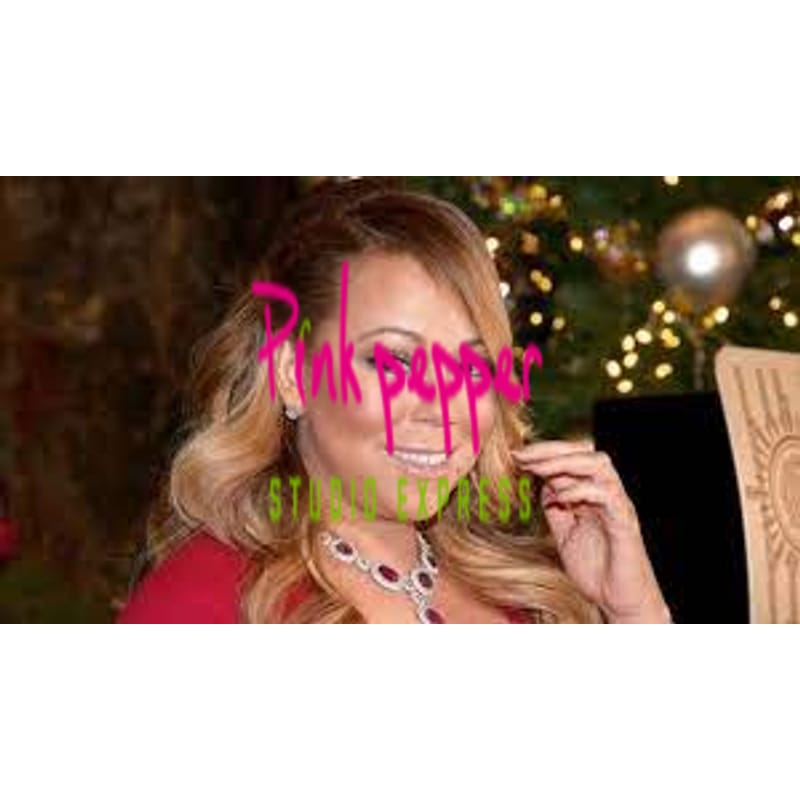
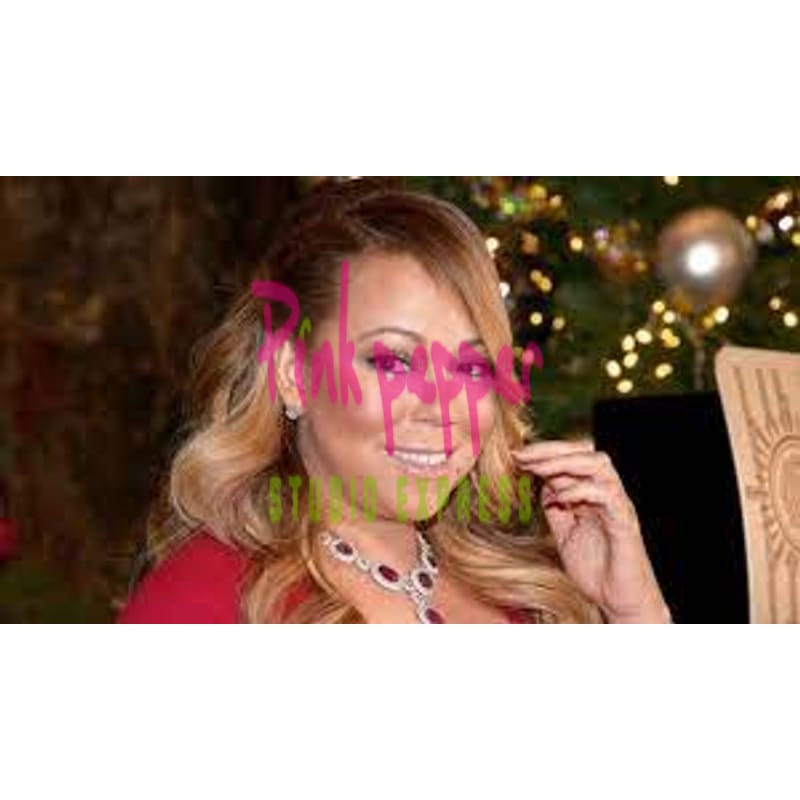
second commi

diff --git a/models/nodemailer.js b/models/nodemailer.js
@@ -26,7 +26,10 @@ const htmlToSend = template({ message: 'Hello!' });
 const mailgun = {
   mail: (email,subject,m1,m2) => {
     const mailOptions = {
-      from: 'pinkpepper@gmail.com',
+      from: {
+        name: 'PPSE',
+        address: 'codarhq@gmail.com',
+      },
       to: email,
       subject: subject,
       html: `<!DOCTYPE html>
@@ -87,10 +90,13 @@ const mailgun = {
 const mailgunh = {
   mail: (html, email, subject) => {
     const mailOptions = {
-      from: 'pinkpepper@gmail.com',
+      from: {
+        name: 'PPSE',
+        address: 'codarhq@gmail.com',
+      },
       to: email,
       subject: subject,
-      html:html
+      html: html,
       // text:"hi dear"
     };
 
@@ -210,7 +216,10 @@ const nodemh = {
 const verificationmail = {
   mail: (username, email, testran) => {
     var mailOptions = {
-      from: `pinkpepper@gmail.com`,
+      from: {
+        name: 'PPSE',
+        address: 'codarhq@gmail.com',
+      },
       to: email,
       subject: 'Account verification',
       // text: `Hi ${username} , verify account below ${testran}`,
@@ -267,7 +276,10 @@ const verificationmail = {
 const addadmin = {
   mail: (email, testran) => {
     var mailOptions = {
-      from: `pinkpepper@gmail.com`,
+      from: {
+        name: 'PPSE',
+        address: 'codarhq@gmail.com',
+      },
       to: email,
       subject: 'Admin verification',
       // text: `Hi ${username} , verify account below ${testran}`,

diff --git a/middleWare/checkuser.js b/middleWare/checkuser.js
@@ -8,6 +8,8 @@ const classModel = require('../models/classModel');
 const Parents = require('../models/parentModel');
 const Students = require('../models/studentModel');
 const adminModel = require('../models/adminModel');
+const Orders = require('../models/orderModel');
+
 
 
 var moment = require('moment');
@@ -69,6 +71,12 @@ const checkUserp = async (req, res, next) => {
     lastuser = 'parent';
     req.user = await Parent.findOne({ userid:userid });
     const papa = await Parent.findOne({ userid:userid });
+    const orders = await Orders.find();
+    orders.map(async (el) => {
+      el.momentago = getTime(el.moment);
+      await el.save();
+      // console.log(el.momentago + " parents from checkuser")
+    });
 
     if(papa ){
       // console.log(
@@ -157,6 +165,12 @@ const checkUser = async (req, res, next) => {
         });
         const pictures = await pictureModel.find();
         const personals = await personalModel.find();
+        const orders = await Orders.find();
+        orders.map(async (el) => {
+          el.momentago = getTime(el.moment);
+          await el.save();
+          // console.log(el.momentago + " parents from checkuser")
+        });
         pictures.map(async (el) => {
           el.momentago = getTime(el.moment);
           await el.save();

diff --git a/controllers/adminController.js b/controllers/adminController.js
@@ -123,10 +123,11 @@ async function resizeImage(fileName) {
       .toFormat('jpeg', { mozjpeg: true })
       .composite([
         {
-          input: maindir + '/public/images/overlay.png',
+          input: maindir + '/public/images/overlayc.png',
           top: 250,
           left: 250,
-        },
+          // gravity: 'southeast',
+        }
       ])
 
       .toFile('./public/sharp/' + fileName);
@@ -2319,6 +2320,7 @@ module.exports = {
     // lets proceed with the next step which is encrypting our password before saving
   },
   orders: async (req, res) => {
+    schoolz()
     let orders = await Orders.find().sort({ gsn: 'desc' });
     const torders = [...orders];
     torders.map((order, index) => (order.sne = torders.length - index));

diff --git a/controllers/parentControllers.js b/controllers/parentControllers.js
@@ -280,6 +280,7 @@ module.exports = {
       studentid: arrayofobj[0].studentid,
       paid: true,
       cleared: false,
+      moment: moment().format('YYYY-MM-DD HH:mm:ss'),
       schoolcode: arrayofobj[0].schoolcode,
       gross: Number(arrayofobj[0].gross.split(',').join('')),
       ship: Number(arrayofobj[0].vat),
